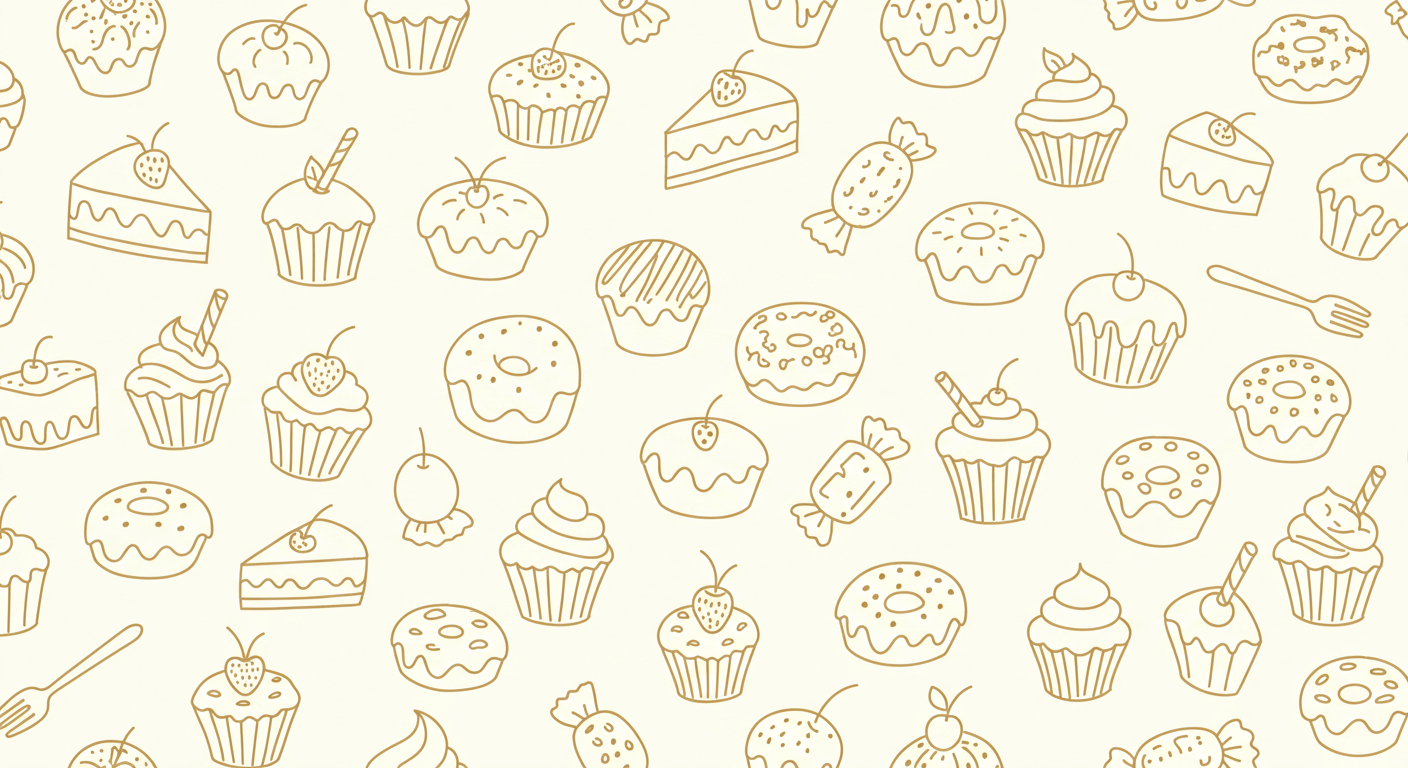
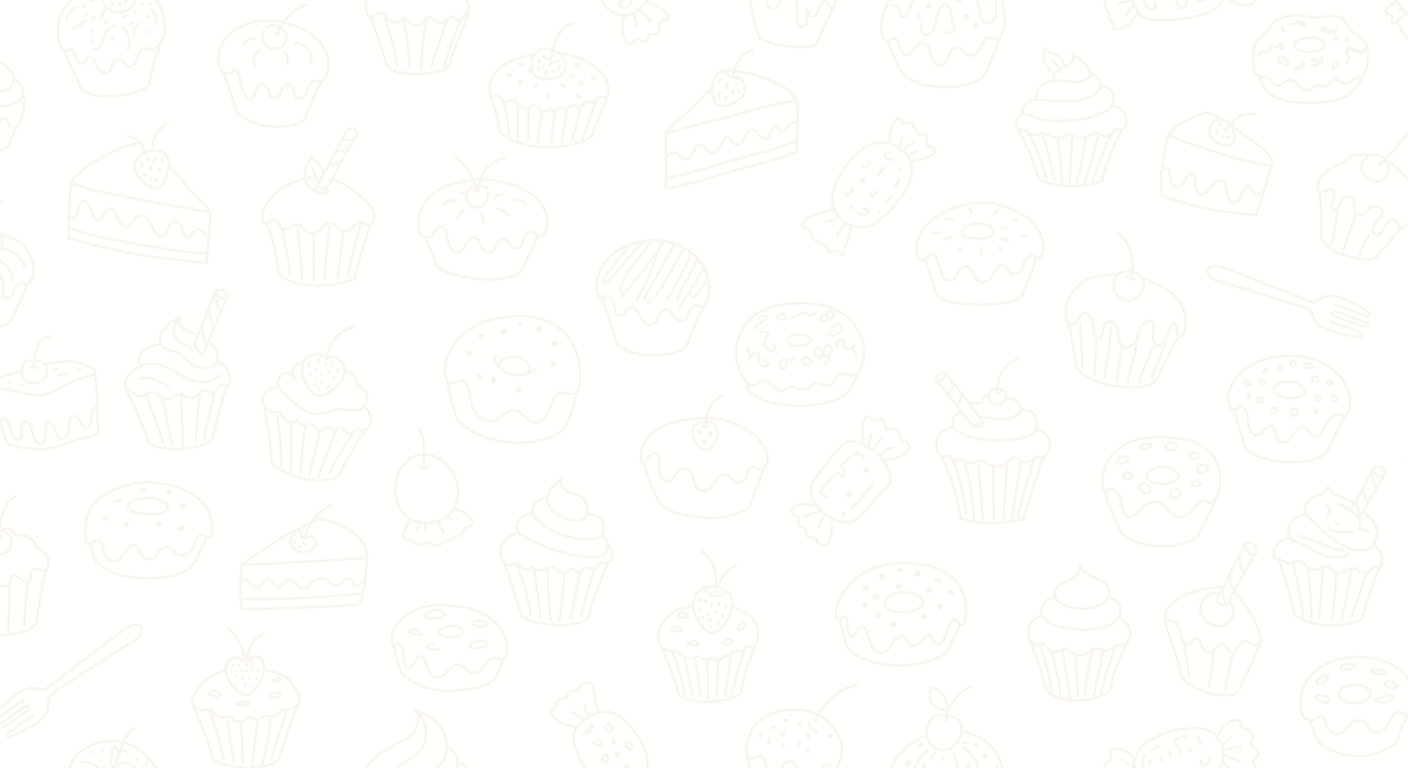
add:color palette modified

diff --git a/index.html b/index.html
@@ -18,28 +18,28 @@
 </head>
 
 <body>
-    <nav class="fixed z-50 w-full bg-gray-800 shadow dark:bg-gray-900 h-20 flex items-center justify-between px-6">
+    <nav class="fixed z-50 w-full bg-pink-300 shadow dark:bg-gray-900 h-20 flex items-center justify-between px-6">
         <a href="#" class="flex items-center py-5" id="brand-logo">
             <img src="./public/icons/P-perla-logo.png" alt="Logo de la pasteleria Postres Perla" class="h-16 w-16">
-            <span class="text-white pl-2 text-2xl font-semibold">
+            <span class="text-white pl-2 text-3xl font-semibold">
                 Postres Perla
             </span>
         </a>
         <div class="hidden md:flex items-center justify-center space-x-6 text-gray-300 capitalize dark:text-gray-400">
             <a href="#services"
-                class="border-b-2 border-transparent hover:text-white dark:hover:text-gray-200 hover:border-blue-500 text-xl">
+                class="border-b-2 text-white border-transparent hover:text-black dark:hover:text-gray-200 hover:border-yellow-500 text-xl">
                 Servicios
             </a>
             <a href="#catalog"
-                class="border-b-2 border-transparent hover:text-white dark:hover:text-gray-200 hover:border-blue-500 text-xl">
+                class="border-b-2 text-white border-transparent hover:text-blackdark:hover:text-gray-200 hover:border-yellow-500 text-xl">
                 Productos
             </a>
             <a href="#"
-                class="border-b-2 border-transparent hover:text-white dark:hover:text-gray-200 hover:border-blue-500 text-xl">
+                class="border-b-2 text-white border-transparent hover:text-black dark:hover:text-gray-200 hover:border-yellow-500 text-xl">
                 Contactanos
             </a>
             <a href="#about-us"
-                class="border-b-2 border-transparent hover:text-white dark:hover:text-gray-200 hover:border-blue-500 text-xl">
+                class="border-b-2 text-white border-transparent hover:text-black dark:hover:text-gray-200 hover:border-yellow-400 text-xl">
                 Nosotros
             </a>
         </div>
@@ -88,9 +88,10 @@
             </div>
         </div>
     </nav>
-    <section class="banner relative w-full h-100 overflow-hidden">
+    <section
+        class="banner relative w-full h-100 overflow-hidden bg[url('public/images/cake-banner.png')] bg-cover bg-center">
         <div class="relative h-full transition-transform duration-500 ease-in-out " id="slider-container">
-            <div class="absolute w-full h-full bg-cover bg-center overflow-hidden">
+            <div class="absolute w-full h-full  overflow-hidden">
                 <div class="flex h-full items-center justify-start w-full">
                     <div class="text w-auto text-left pl-8 max-w-screen-md">
                         <div
@@ -105,7 +106,7 @@
                     </div>
                 </div>
             </div>
-            <div class="absolute w-full h-full bg-cover bg-center overflow-hidden" style="transform: translateX(100%);">
+            <!-- <div class="absolute w-full h-full bg-cover bg-center overflow-hidden" style="transform: translateX(100%);">
                 <div class="flex flex-col h-full items-start justify-center">
                     <div class="flex h-full items-center justify-start w-full">
                         <div class="text w-auto text-left pl-8 max-w-screen-md">
@@ -141,21 +142,21 @@
                 <div class="flex justify-end items-end w-full h-full image-conatainer">
                     <img src="./public/images/vectors/budget_calc.png" class="w-140" alt="">
                 </div>
-            </div>
+            </div> -->
         </div>
         </div>
-        <button type="button" 
-            id="scrollDownBtn" 
-            onclick="document.getElementById('catalog').scrollIntoView({ behavior: 'smooth' });"
-            class="animate-bounce transition-all duration-500
+        <button type="button" id="scrollDownBtn"
+            onclick="document.getElementById('catalog').scrollIntoView({ behavior: 'smooth' });" class="animate-bounce transition-all duration-500
             w-12 h-12 fixed bottom-10 left-1/2 transform -translate-x-1/2 z-50  
             text-gray-800 bg-pink-400 hover:bg-pink-500 
             focus:ring-4 focus:outline-none focus:ring-pink-300 
             font-medium rounded-full text-sm p-2.5 text-center 
             inline-flex items-center me-2 dark:bg-pink-300 
             dark:hover:bg-pink-500 dark:focus:ring-pink-200">
-            <svg class="rotate-90 w-12 h-12" aria-hidden="true" xmlns="http://www.w3.org/2000/svg" fill="none" viewBox="0 0 14 10">
-                <path stroke="currentColor" stroke-linecap="round" stroke-linejoin="round" stroke-width="2" d="M1 5h12m0 0L9 9m4-4L9 1"/>
+            <svg class="rotate-90 w-12 h-12" aria-hidden="true" xmlns="http://www.w3.org/2000/svg" fill="none"
+                viewBox="0 0 14 10">
+                <path stroke="currentColor" stroke-linecap="round" stroke-linejoin="round" stroke-width="2"
+                    d="M1 5h12m0 0L9 9m4-4L9 1" />
             </svg>
             <span class="sr-only"> </span>
         </button>
@@ -164,55 +165,59 @@
     <section class="catalog flex justify-center items-center" id="catalog">
         <div class="container">
             <div class="catalog-text mt-8 mb-8 text-center">
-                <h2 class="text-black-200 capitalize text-5xl md:text-5xl font-normal title">Productos destacados</h2>
-                <p class="pt-3">Explora nuestra deliciosa colección de postres y déjate llevar</p>
+                <h2 class="text-black-100 capitalize text-7xl md:text-5xl font-semibold title">
+                    Productos <span class="text-pink-400">Postres Perla</span>
+                </h2>
+                <p class="pt-3 text-2xl">Explora nuestra deliciosa colección de postres y déjate llevar por el encanto!
+                </p>
             </div>
             <div class="gallery grid justify-items-center gap-4 sm:grid-cols-2 md:grid-cols-3 pt-8 pb-18">
                 <div class="img-box img1 drop-shadow-sm">
                     <div class="img-container">
-                        <img src="./public/images/cake-light-bg.jpg" alt="Postre 1">
+                        <img src="./public/images/personal-cake.jpg" alt="Postre 1">
                     </div>
                     <div class="mt-2 text-center pt-2">
                         <a href="#" class="font-normal hover:text-indigo-600 transition text-xl duration-300 text-wrap">
                             Pasteles personalizados
                         </a>
-                        <p class="text-gray-600">A partir de $15</p>
+                        <p class="text-gray-600">Adaptados a tus gustos</p>
                     </div>
                 </div>
                 <div class="img-box img2 drop-shadow-sm">
                     <div class="img-container">
-                        <img src="./public/images/mousse-light-bg.jpg" alt="Postre 2">
+                        <img src="./public/images/mouse-yellow.jpg" alt="Postre 2">
                     </div>
                     <div class="mt-2 text-center pt-2">
                         <a href="#" class="font-normal hover:text-blue-600 text-xl transition duration-300">Mousse de
                             frutas</a>
-                        <p class="text-gray-600">A partir de $12</p>
+                        <p class="text-gray-600">Hechos con lo mas fresco</p>
                     </div>
                 </div>
                 <div class="img-box img3 drop-shadow-sm">
                     <div class="img-container">
-                        <img src="./public/images/pie-light-bg.jpg" alt="Postre 3">
+                        <img src="./public/images/pie-yellow.jpg" alt="Postre 3">
                     </div>
                     <div class="mt-2 text-center pt-2">
                         <a href="#" class="font-normal hover:text-blue-600 text-xl transition duration-300">
                             Pie de frutas
                         </a>
-                        <p class="text-gray-600">A partir de $10</p>
+                        <p class="text-gray-600">La fruta que desees, el limite lo pones tu</p>
                     </div>
                 </div>
                 <div class="img-box img4 drop-shadow-sm">
                     <div class="img-container">
-                        <img src="./public/images/pudding-light-bg.jpg" alt="Pudin de pan imagen">
+                        <img src="./public/images/pudding-yellow.jpg" alt="Pudin de pan imagen">
                     </div>
                     <div class="mt-2 text-center pt-2">
                         <a href="#" class="font-normal hover:text-blue-600 transition text-xl duration-300">
                             Pudding de pan
                         </a>
-                        <p class="text-gray-600">$14</p>
+                        <p class="text-gray-600">Elaborado con ingredientes de primera</p>
                     </div>
                 </div>
             </div>
         </div>
+        <a href="#" class="text-2xl text-pink-300 font-bold underline text-shadow-300">Ver mas</a>
     </section>
 
     <section class="relative testimonials backdrop-blur-md" id="testimonials">
@@ -357,7 +362,7 @@
             <div class="grid gap-12 sm:gap-12 md:grid-cols-2">
                 <div class="flex flex-col items-start gap-3">
                     <h2 class="mb-6 mt-8 text-7xl text-black-200 text-normal text-7xl md:text-7xl font-normal title ">
-                        Postres Perla, un <span class="text-yellow-200">rincón de dulzura</span>
+                        Postres Perla, un <span class="text-pink-300">rincón de dulzura</span>
                     </h2>
                     <p class="text-md text-gray-500 sm:text-2xl">
                         Consectetur adipiscing elit duis tristique sollicitudin nibh.
@@ -369,7 +374,6 @@
                         Augue mauris augue neque gravida in fermentum. Sapien pellentesque
                         habitant morbi tristique pellentesque.
                     </p>
-                    <div class="mb-8 mt-8 h-px w-full bg-black"></div>
                 </div>
                 <div
                     class="pastry-chef-img min-h-[300px] max-h-[540px] overflow-hidden rounded-md bg-gray-100 mt-8 mb-5">
@@ -389,29 +393,32 @@
         </div>
     </section> -->
 
-    <!-- Buttons desktop for calculation-->    
+    <!-- Buttons desktop for calculation-->
     <div class="fixed top-1/2 right-1 transform -translate-y-1/2 z-50 md:block hidden">
         <div class="relative group">
-            <button class="flex items-center justify-center w-16 h-16 rounded-full bg-yellow-300 hover:bg-yellow-200 shadow-lg">
+            <button
+                class="flex items-center justify-center w-16 h-16 rounded-full bg-yellow-300 hover:bg-yellow-200 shadow-lg">
                 <img class="w-9" src="./public/icons/calculator.png" alt="Calculadora de productos">
             </button>
             <!-- Tooltip -->
-            <div class="absolute right-full top-1/2 -translate-y-1/2 bg-white rounded-lg shadow-lg px-4 py-2 text-lg text-black font-semibold whitespace-nowrap opacity-0 transition-opacity duration-200 group-hover:opacity-100 pointer-events-auto">
-                Obten tu cotización              
+            <div
+                class="absolute right-full top-1/2 -translate-y-1/2 bg-white rounded-lg shadow-lg px-4 py-2 text-lg text-black font-semibold whitespace-nowrap opacity-0 transition-opacity duration-200 group-hover:opacity-100 pointer-events-auto">
+                Obten tu cotización
                 <div class="absolute left-full top-1/2 -translate-y-1/2 w-3 h-3 bg-white rotate-45 shadow-md"></div>
             </div>
         </div>
     </div>
     <!-- Movil button -->
     <div class="fixed bottom-4 left-4 right-4 z-50 md:hidden">
-        <button class="w-full py-4 bg-yellow-300 hover:bg-yellow-200 text-black text-lg font-semibold rounded-lg shadow-lg flex items-center justify-center">
+        <button
+            class="w-full py-4 bg-yellow-300 hover:bg-yellow-200 text-black text-lg font-semibold rounded-lg shadow-lg flex items-center justify-center">
             <img class="w-6 h-6 mr-2" src="./public/icons/calculator.png" alt="Calculadora de productos">
             Obten tu cotización
         </button>
     </div>
     <!-- End movil button -->
 
-    <footer class="relative block shadow dark:bg-gray-800 overflow-hidden py-10">
+    <footer class="relative block shadow bg-pink-300 dark:bg-pink-300 overflow-hidden py-10">
         <div class="py-16 md:py-20 mx-auto w-full max-w-7xl px-5 md:px-10 relative z-10">
             <div class="flex-col flex items-center" id="items">
                 <h4
@@ -459,4 +466,5 @@
         }
     });
 </script>
+
 </html>

diff --git a/src/assets/styles.css b/src/assets/styles.css
@@ -11,13 +11,16 @@
     --light-pink: #f5dff8;
     --white-bone: #fffbf4;
 }
+
 .text-salmon {
     color: var(--salmon-color);
 }
+
 html {
     scroll-behavior: smooth;
     scrollbar-width: thin;
 }
+
 body {
     font-family: 'Poppins', sans-serif;
     margin: 0;
@@ -25,6 +28,7 @@ body {
     background-color: #ffffff;
     color: #333;
 }
+
 header {
     display: flex;
     justify-content: space-between;
@@ -32,25 +36,17 @@ header {
     padding: 20px 30px;
     background-color: rgb(255, 255, 255);
 }
-nav>#brand-logo{
-  font-family: "Caveat Brush", cursive;
-  font-weight: 400;
-  font-style: normal;
 
+nav>#brand-logo {
+    font-family: "Caveat Brush", cursive;
+    font-weight: 400;
+    font-style: normal;
 }
-nav ul {
-    list-style: none;
-    display: flex;
-    gap: 15px;
-    padding: 0;
-    margin: 0;
+
+nav a {
+    text-shadow: 0px 0px 4px rgba(0, 0, 0, 0.2);
 }
-nav ul li a {
-    text-decoration: none;
-    color: black;
-    font-weight: bold;
-    font-size: 1.2rem;
-}
+
 .banner {
     position: relative;
     height: 100vh;
@@ -58,6 +54,7 @@ nav ul li a {
     opacity: 1;
     transition: opacity 0.1s linear;
 }
+
 .banner-slide-title {
     font-family: "Noto Sans", sans-serif;
     font-optical-sizing: auto;
@@ -119,22 +116,18 @@ nav ul li a {
     font-variation-settings: "wdth" 100;
 }
 
-.catalog-text p {
-    font-size: 1.3rem;
-    color: #444;
-}
-
 .catalog .gallery {
     display: flex;
     flex-direction: row;
-    justify-content: space-between;
+    justify-content: center;
     flex-wrap: wrap;
 }
 
 .img-box .img-container {
-    width: 335px;
-    height: 380px;
+    width: 295px;
+    height: 325px;
     overflow: hidden;
+    margin-right: 8px;
 }
 
 .img-box .img-container img {
@@ -159,6 +152,13 @@ nav ul li a {
 }
 
 /* About us section */
+.about-us {
+    background-image: url("../../public/images/desserts-patterns.png");
+    background-position: center;
+    background-repeat: repeat;
+    background-size: cover;
+}
+
 .pastry-chef-img {
     background-color: transparent;
 }

diff --git a/src/scripts/main.js b/src/scripts/main.js
@@ -51,3 +51,55 @@ document.addEventListener('DOMContentLoaded', function () {
     }
     setInterval(nextSlide, 8000);
 });
+
+
+document.addEventListener('DOMContentLoaded', function () {
+    const carouselItems = document.getElementById('carousel-items');
+    const prevButton = document.getElementById('carousel-prev');
+    const nextButton = document.getElementById('carousel-next');
+    const items = carouselItems.children;
+    let currentIndex = 0;
+    let itemWidth = items[0].offsetWidth;
+    let intervalId;
+
+    function updateCarousel() {
+        carouselItems.style.transform = `translateX(-${currentIndex * itemWidth}px)`;
+    }
+
+    function nextSlide() {
+        currentIndex = (currentIndex + 1) % items.length;
+        updateCarousel();
+    }
+
+    function prevSlide() {
+        currentIndex = (currentIndex - 1 + items.length) % items.length;
+        updateCarousel();
+    }
+
+    prevButton.addEventListener('click', prevSlide);
+    nextButton.addEventListener('click', nextSlide);
+
+    function startAutoSlide() {
+        intervalId = setInterval(nextSlide, 3000); // Cambia cada 3 segundos
+    }
+
+    function stopAutoSlide() {
+        clearInterval(intervalId);
+    }
+
+    startAutoSlide();
+
+    // Responsividad
+    function handleResize() {
+        itemWidth = items[0].offsetWidth;
+        updateCarousel();
+    }
+
+    window.addEventListener('resize', handleResize);
+    handleResize(); // Inicializa el tamaño
+
+    // Pausa el auto-slide al pasar el mouse sobre el carrusel
+    carouselItems.addEventListener('mouseenter', stopAutoSlide);
+    carouselItems.addEventListener('mouseleave', startAutoSlide);
+
+});
